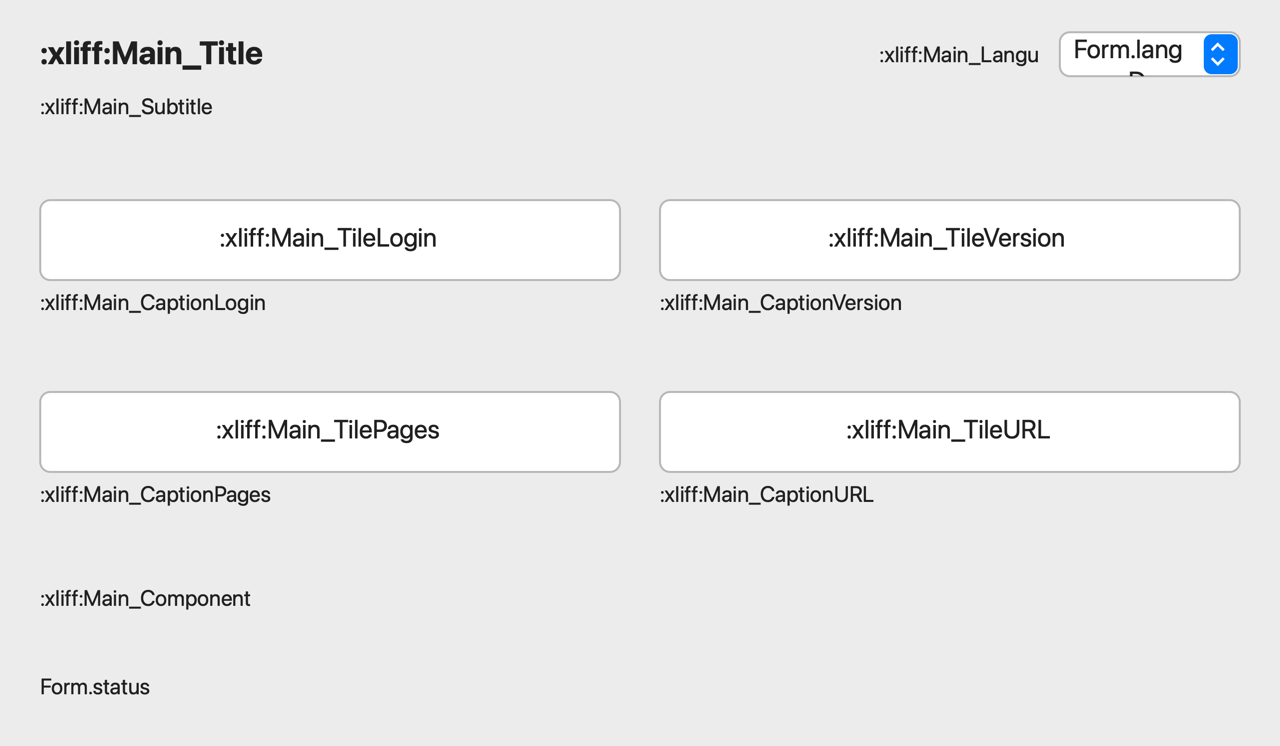
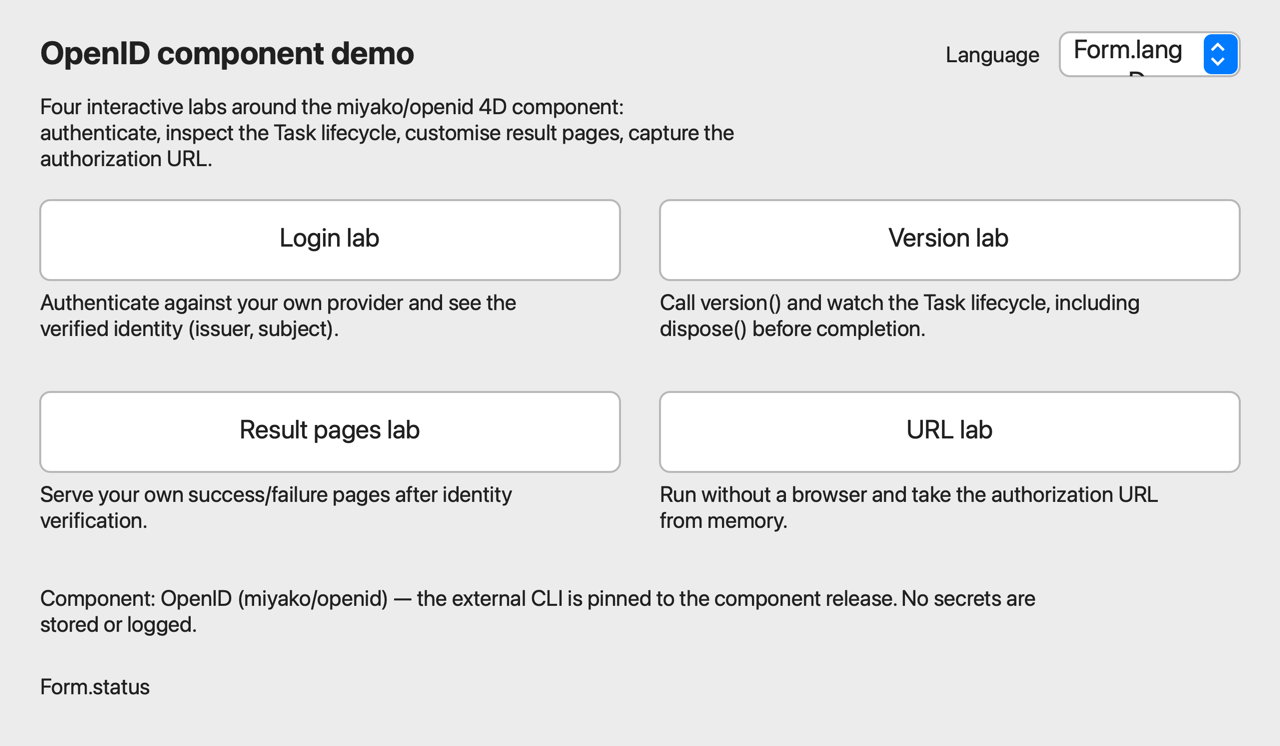
docs: re-render screenshots with resolved localization, add ja hub variant
The previous renders showed raw :xliff: tokens because the .lproj folders
were still in Project/Resources (see previous commit). Re-rendered all
five forms with --language en and added Main_ja.png showing the hub in
Japanese. fourdform resolves :xliff: fine from the database-root
Resources/ -- corrected the earlier renderer note in docs/notes.md.

diff --git a/docs/notes.md b/docs/notes.md
@@ -26,9 +26,13 @@ the next component-consuming demo.
 5. **macOS TCC**: listing `~/Documents` from a shell is denied, while
    direct paths into `~/Documents/GitHub/...` work. Do not retry the
    parent listing.
-6. **`fourdform` previews cannot resolve `:xliff:` references** (warning:
-   "Unresolved XLIFF reference; original text retained"). Previews are for
-   geometry only; expect raw IDs in titles.
+6. **`fourdform` previews resolve `:xliff:` references fine** -- provided
+   the `.lproj` folders are in the database-root `Resources/` (see
+   finding 23; the earlier "renderer cannot resolve XLIFF" conclusion was
+   the same location mistake). Pass `--language en|ja` to pick the
+   variant; empty inputs and object-based dropdowns still display their
+   data-source names (`Form.status`, `Form.lang`) -- a documented renderer
+   limitation, not a localization failure.
 
 ## 4D language traps (caught by `4dlsp` + `4dlang` before any runtime)
 

diff --git a/README.md b/README.md
@@ -49,7 +49,7 @@
 |---|---|
 | ![ハブ](docs/screenshots/Main.png) | ![ログインラボ](docs/screenshots/Login.png) |
 | ![バージョンラボ](docs/screenshots/VersionLab.png) | ![結果ページラボ](docs/screenshots/ResultPages.png) |
-| ![URLラボ](docs/screenshots/URLCapture.png) | |
+| ![URLラボ](docs/screenshots/URLCapture.png) | ![ハブ（日本語）](docs/screenshots/Main_ja.png) |
 
 ---
 
@@ -159,4 +159,4 @@ The JSON report lands next to the repository root
 |---|---|
 | ![Hub](docs/screenshots/Main.png) | ![Login lab](docs/screenshots/Login.png) |
 | ![Version lab](docs/screenshots/VersionLab.png) | ![Result pages lab](docs/screenshots/ResultPages.png) |
-| ![URL lab](docs/screenshots/URLCapture.png) | |
+| ![URL lab](docs/screenshots/URLCapture.png) | ![Hub (Japanese)](docs/screenshots/Main_ja.png) |
